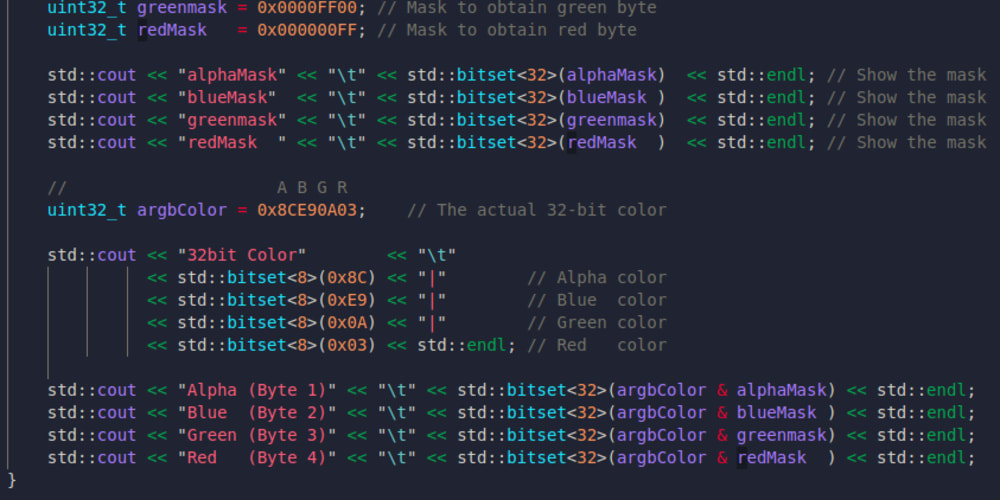
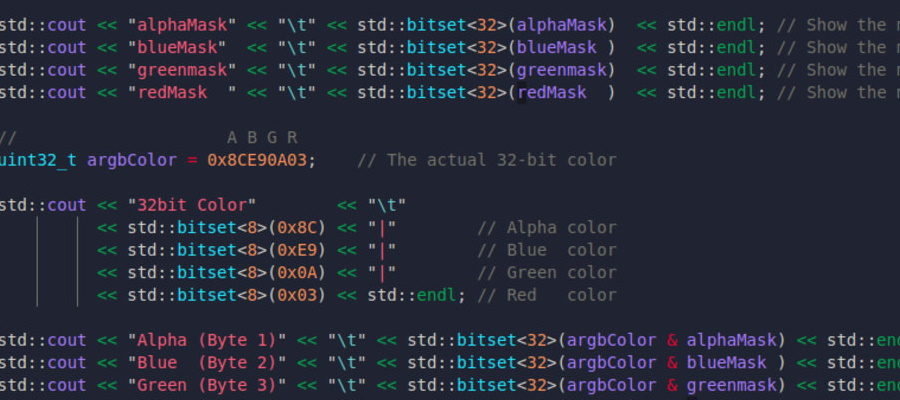
Add homepage, gallery images for most posts.

diff --git a/layouts/_default/jp.html b/layouts/_default/jp.html
@@ -1,0 +1,67 @@
+{{ define "main" }}
+    <!-- Import profile section styles. -->
+    <link rel="stylesheet" href="{{ relURL "/css/profile.css" }}">
+
+    <!-- Profile box. -->
+    <div class="profile">
+        <div class="profile-left">
+            <img class="profile-picture" src="{{ relURL "/img/profile/pfp_black.png" }}" />
+            <a class="profile-contact" href="{{ relURL "/about" }}">連絡してね！</a>
+        </div>
+
+        <div class="profile-right">
+            <h1>c272</h1>
+            <h3>ソフトウェアエンジニア, 修士学生</h3>
+            <div class="profile-langs">
+                <a href="{{ relURL "/jp" }}">(日本語)</a>
+                <a href="{{ relURL "/" }}">(English)</a>
+            </div>
+            <div class="h-line-secondary"></div>
+
+            <h4>言語</h4>
+            <p>C, C++, C#, Java, Rust, Javascript, Python, SQL</p>
+
+            <h4>技術</h4>
+            <ul>
+                <li>ARM上のLinux (BMC, 組み込みファームウェア更新)</li>
+                <li>コンパイラアーキテクチャと静的解析</li>
+                <li>リアルタイムレンダリングのパイプライン化</li>
+            </ul>
+
+            <h4>見どころのあるプロジェクト</h4>
+            <ul>
+                <li><a href="https://github.com/c272/iro4cli">iro4cli</a>: 文法生成ツール「Iro」のオープンソース版。VSCodeとAtomの拡張を自動生成できる。</li>
+                <li><a href="https://github.com/c272/algo-lang">algo</a>: .NET CLRに基づいた柔軟で数学向けのプログラミング言語。</li>
+                <li><a href="https://github.com/c272/micro-tools">micro-tools</a>: マイクロビットv2を対象にしたツール集。</li>
+                <li><a href="https://gitlab.arm.com/server_management/libcper">libcper</a>: UEFI CPERエラー記録のバイナリ形式と新たな読みやすいJSON形式を変換できるライブラリ.</li>
+                <li><a href="https://github.com/c272/tileEngine">tileEngine</a>: C#でゲームを作成する2Dゲームエンジン。コード変化に合わせて自動的に更新する機能を持っている。</li>
+            </ul>
+
+            <h4>未来</h4>
+            <p>
+                <span class="profile-date">(Oct 2024 -)</span><br>
+                エンジンとツール開発者 @ <span class="redacted">[これ見ないでよ!]</span>
+            </p>
+
+            <h4>現在の職業</h4>
+            <p>
+                <span class="profile-date">(Jul 2023 - Oct 2023)</span><br>
+                .NETランタイム, DSG部 @ <b>Arm</b>
+            </p>
+
+            <h4>職歴</h4>
+            <p>
+                <span class="profile-date">(Dec 2020 - Jul 2023)</span><br>
+                パワー制御, ATG部 @ <b>Arm</b><br>
+            </p>
+            <p>
+                <span class="profile-date">(Sep 2018 - Dec 2020)</span><br>
+                フリーランスソフトウェアエンジニア
+            </p>
+
+            <div class="h-line-secondary"></div>
+        </div>
+    </div>
+
+    {{- partial "featured.html" -}}
+{{ end }}

diff --git a/layouts/index.html b/layouts/index.html
@@ -1,0 +1,67 @@
+{{ define "main" }}
+    <!-- Import profile section styles. -->
+    <link rel="stylesheet" href="{{ relURL "/css/profile.css" }}">
+
+    <!-- Profile box. -->
+    <div class="profile">
+        <div class="profile-left">
+            <img class="profile-picture" src="{{ relURL "/img/profile/pfp_black.png" }}" />
+            <a class="profile-contact" href="{{ relURL "/about" }}">Contact Me!</a>
+        </div>
+
+        <div class="profile-right">
+            <h1>c272</h1>
+            <h3>Software Engineer, MEng Student</h3>
+            <div class="profile-langs">
+                <a href="{{ relURL "/jp" }}">(日本語)</a>
+                <a href="{{ relURL "/" }}">(English)</a>
+            </div>
+            <div class="h-line-secondary"></div>
+
+            <h4>Languages</h4>
+            <p>C, C++, C#, Java, Rust, Javascript, Python, SQL</p>
+
+            <h4>Skills</h4>
+            <ul>
+                <li>Linux on ARM (BMC, Firmware Update)</li>
+                <li>Compiler Architecture & Static Analysis</li>
+                <li>Real-Time Rendering Pipelines</li>
+            </ul>
+
+            <h4>Highlighted Projects</h4>
+            <ul>
+                <li><a href="https://github.com/c272/iro4cli">iro4cli</a>: A grammar generator for syntax highlighting and editor extension formats.</li>
+                <li><a href="https://github.com/c272/algo-lang">algo</a>: A versatile, mathsy programming language, built on top of the .NET CLR.</li>
+                <li><a href="https://github.com/c272/micro-tools">micro-tools</a>: A collection of tools to enhance the micro:bit v2 developer experience.</li>
+                <li><a href="https://gitlab.arm.com/server_management/libcper">libcper</a>: A highly portable library for UEFI-CPER and JSON interoperability.</li>
+                <li><a href="https://github.com/c272/tileEngine">tileEngine</a>: A dynamic 2D tile-based game engine (with integrated editor) targeting Windows.</li>
+            </ul>
+
+            <h4>Future</h4>
+            <p>
+                <span class="profile-date">(Oct 2024 -)</span><br>
+                Engine & Tooling Developer @ <span class="redacted">[NO PEEKING!]</span>
+            </p>
+
+            <h4>Current</h4>
+            <p>
+                <span class="profile-date">(Jul 2023 - Oct 2023)</span><br>
+                .NET Runtimes Team, DSG @ <b>Arm</b>
+            </p>
+
+            <h4>Previous</h4>
+            <p>
+                <span class="profile-date">(Dec 2020 - Jul 2023)</span><br>
+                Power Team, Architecture & Technology Group @ <b>Arm</b><br>
+            </p>
+            <p>
+                <span class="profile-date">(Sep 2018 - Dec 2020)</span><br>
+                Freelance Software Engineer
+            </p>
+
+            <div class="h-line-secondary"></div>
+        </div>
+    </div>
+
+    {{- partial "featured.html" -}}
+{{ end }}

diff --git a/static/css/profile.css b/static/css/profile.css
@@ -1,0 +1,91 @@
+/*
+CSS classes for the profile section on the homepage.
+*/
+.profile {
+    margin-bottom: 4em;
+    display: flex;
+}
+
+/* Tucks profile text underneath at small widths. */
+@media (max-width: 38rem) {
+    .profile {
+        flex-wrap: wrap;
+        justify-content: center;
+    }
+
+    .profile-left {
+        margin-bottom: 1em;
+    }
+}
+
+.profile-left {
+    margin-right: 2em;
+}
+
+.profile-picture {
+    max-width: 10em;
+    margin-top: 0;
+    margin-bottom: 0.25em;
+}
+
+.profile-contact {
+    color: var(--text-color-light);
+    font-size: 0.8em;
+}
+
+.profile-right h1 {
+    margin-top: 0;
+    margin-bottom: 0em;
+    font-size: 3em;
+    font-weight: 900;
+}
+
+.profile-right h3 {
+    margin-top: 0;
+    margin-bottom: 0.75em;
+}
+
+.profile-langs {
+    display: flex;
+    flex-direction: row-reverse;
+    margin-right: -0.25em;
+}
+
+.profile-langs a {
+    margin-left: 0.25em;
+    margin-right: 0.25em;
+    font-size: 0.9em;
+    color: var(--text-color-light);
+    font-weight: 500;
+}
+
+.profile-right h4 {
+    margin-top: 1.5em;
+    font-size: 1em;
+    font-weight: 600;
+}
+
+.profile-right p {
+    margin-top: 0;
+}
+
+.profile-right a {
+    font-weight: 500;
+}
+
+.redacted {
+    color: var(--text-color);
+    background-color: var(--text-color);
+}
+
+.profile-date {
+    color: var(--text-color-light);
+}
+
+.featured-posts {
+    margin-bottom: 4em;
+}
+
+.featured-posts-title {
+    margin-bottom: -1em !important;
+}

diff --git a/layouts/partials/featured.html b/layouts/partials/featured.html
@@ -1,0 +1,11 @@
+<!-- Featured posts. -->
+<div class="featured-posts">
+    <div class="featured-posts-title">
+        <h2>Featured Posts</h2>
+        <div class="h-line-secondary"></div>
+    </div>
+    
+    {{ range ( where site.RegularPages "Type" "blog" | first 3 ) }}
+        {{ .Render "li" }}
+    {{end}}
+</div>

diff --git a/content/about.md b/content/about.md
@@ -4,4 +4,47 @@ layout: page
 ---
 
 # About
-This is the about page!
+If this is your first time here, welcome to my site! I'm a software engineer from the UK who's currently studying towards an MEng in Software Engineering, while pursuing a myriad of personal projects and language learning goals.
+
+On this site, I post about various different fields which pique my interest, including programming-related topics (mostly compiler architecture & real-time rendering), language learning and Japanese. If you're interested in my current career situation, check out the [landing page](/) of this site.
+
+## Contact Details
+I keep a fairly open line if you wish to contact me, but I simply ask that you follow the chart below when doing so, as it makes it much easier for me to find and respond to your message.
+
+<style>
+    .business-use-yes {
+        background-color: green;
+        text-align: center;
+        color: white;
+    }
+
+    .business-use-no {
+        background-color: darkred;
+        text-align: center;
+        color: white;
+    }
+</style>
+<table>
+    <tr>
+        <th></th>
+        <th>Handle/Address</th>
+        <th>Business Use?</th>
+    </tr>
+    <tr>
+        <td>Development Email</td>
+        <td><a href="mailto://dev@c272.org">dev@c272.org</a></td>
+        <td class="business-use-yes">✓</td>
+    </tr>
+    <tr>
+        <td>"脇道の看板" Blog Email</td>
+        <td><a href="mailto://wakimichi@c272.org">wakimichi@c272.org</a></td>
+        <td class="business-use-no">✖</td>
+    </tr>
+    <tr>
+        <td>GitHub</td>
+        <td><a href="https://github.com/c272">c272</a></td>
+        <td class="business-use-no">✖</td>
+    </tr>
+</table>
+
+I look forward to speaking with you!

diff --git a/content/blog/jp/_index.md b/content/blog/jp/_index.md
@@ -31,7 +31,7 @@ title: 脇道の看板
 
 # 脇道へようこそ。
 
-ここでは英語母語話者が書く日常茶飯事に関する記事が偶に掲載されます。現在イギリスで直面している課題やソフトウェア工学、言語学、日本文化と言ったトピックを主なテーマにしています。英語の記事も幾つか他のブログで書いています。
+ここでは英語母語話者が書く日常茶飯事に関する記事が偶に掲載されます。現在イギリスで直面している課題やソフトウェア工学、言語学、日本文化と言ったトピックを主なテーマにしています。英語の記事も幾つか他のブログで書きます。
 
 日本語能力試験はとっていたものの、勿論まだ誤字と文法ミスをたくさん入れると思うので、ぜひ時間があれば以下のメール宛に訂正をお願い申し上げます。
 
@@ -40,4 +40,3 @@ title: 脇道の看板
 </div>
 <img class="wakimichi-sign" src="/img/misc/roadsign.png">
 </div>
-<div class="h-line-secondary"></div>

diff --git a/content/blog/jp/外国人から見た： 日本就活１話.md b/content/blog/jp/外国人から見た： 日本就活１話.md
@@ -1,6 +1,8 @@
 ---
 title:  "外国人から見た：日本就活 - 事前準備と応募（１話）"
 date:   2023-05-10 20:41:31 +0100
+coverImage: /img/covers/shuukatu.png
+imageAttribution: (c) 共同通信, 2023
 ---
 ついさっき、二週間前に僕の就活がやっと終わった。内定をもらい、契約に署名し、来年の日本への引っ越しを決めました。では、この経験から何を学びましたか？日本への感想はどう変わりましたか？この記事で僕の視点から見た日本への就活を描写し、その内発見されたコツや落とし穴と、応募中に驚きを起こさせたポイントを伝えたい。
 

diff --git a/content/blog/code/the-little-man-computer.md b/content/blog/code/the-little-man-computer.md
@@ -6,7 +6,7 @@ tags:
   - NodeJS
 description: >
   Emulation for dummies.
-coverImage: /img/covers/bitset.jpg
+coverImage: /img/covers/littlemancomputer.png
 ---
 
 Over the past couple of months, apart from writing my book, “You Suck at Programming” [^1], I’ve been working on an emulator/interpreter for the famous computer simulation “Little Man Computer", by Peter Higginson. It was created many years ago to help students learn about how the CPU and memory worked and interacted with each other, and was a great way for me to try and understand some lower level emulation, as it has an instruction set consisting of just nine operations. These operations are:

diff --git a/content/blog/language/_index.md b/content/blog/language/_index.md
@@ -26,7 +26,7 @@ title: Gengo! 言語
 
 # Gengoへようこそ。
 A personal blog discussing my learning process with Japanese, as well as writing on various media I'm interested in.
-You can also various bits of data I've collected over time on my learning techniques and how they've worked (or not!) for me.
+You can also view various bits of data I've collected over time on my learning techniques and how well they've worked (or not!) for me.
 
 Feel free to email me at [larry@c272.org](mailto://larry@c272.org), or submit questions through Disqus.
 

diff --git a/content/blog/jp/冒険の糸口！.md b/content/blog/jp/冒険の糸口！.md
@@ -1,6 +1,8 @@
 ---
 title:  "冒険の糸口！"
 date: 2023-04-24 20:41:31 +0100
+coverImage: /img/covers/bouken-itoguchi.png
+imageAttribution: via. Midjourney
 ---
 脇道の看板へようこそ！将来にここで沢山の小さい記事を書きたいと考えていますので、これはその当初の印として残しておきたいです。日本語での話し方とか、散文の書き方といったことに全然詳しくありませんので、変な構文になったらどうか許してください。
 

diff --git a/content/blog/code/postprocessing-in-sadconsole.md b/content/blog/code/postprocessing-in-sadconsole.md
@@ -6,7 +6,7 @@ tags:
   - .NET
 description: >
   An article I wrote for the SadConsole wiki in 2019.
-coverImage: /img/covers/bitset.jpg
+coverImage: /img/covers/postprocessing-sadconsole.png
 ---
 {{<notice "" "This was originally an article I wrote for the SadConsole wiki in 2019, which I have moved over to this blog. You can find (and use) SadConsole [here.](https://github.com/Thraka/SadConsole)">}}
 

diff --git a/content/blog/code/steam-inventories-in-node.md b/content/blog/code/steam-inventories-in-node.md
@@ -6,7 +6,7 @@ tags:
   - NodeJS
 description: >
   A footnote on managing inventories using the Steam API.
-coverImage: /img/covers/bitset.jpg
+coverImage: /img/covers/steam-inventories.png
 ---
 {{<notice "alert" "Warning: This article was written in 2018, when the Steam API for inventory management was different. The information here may now be outdated or incorrect.">}}
 
